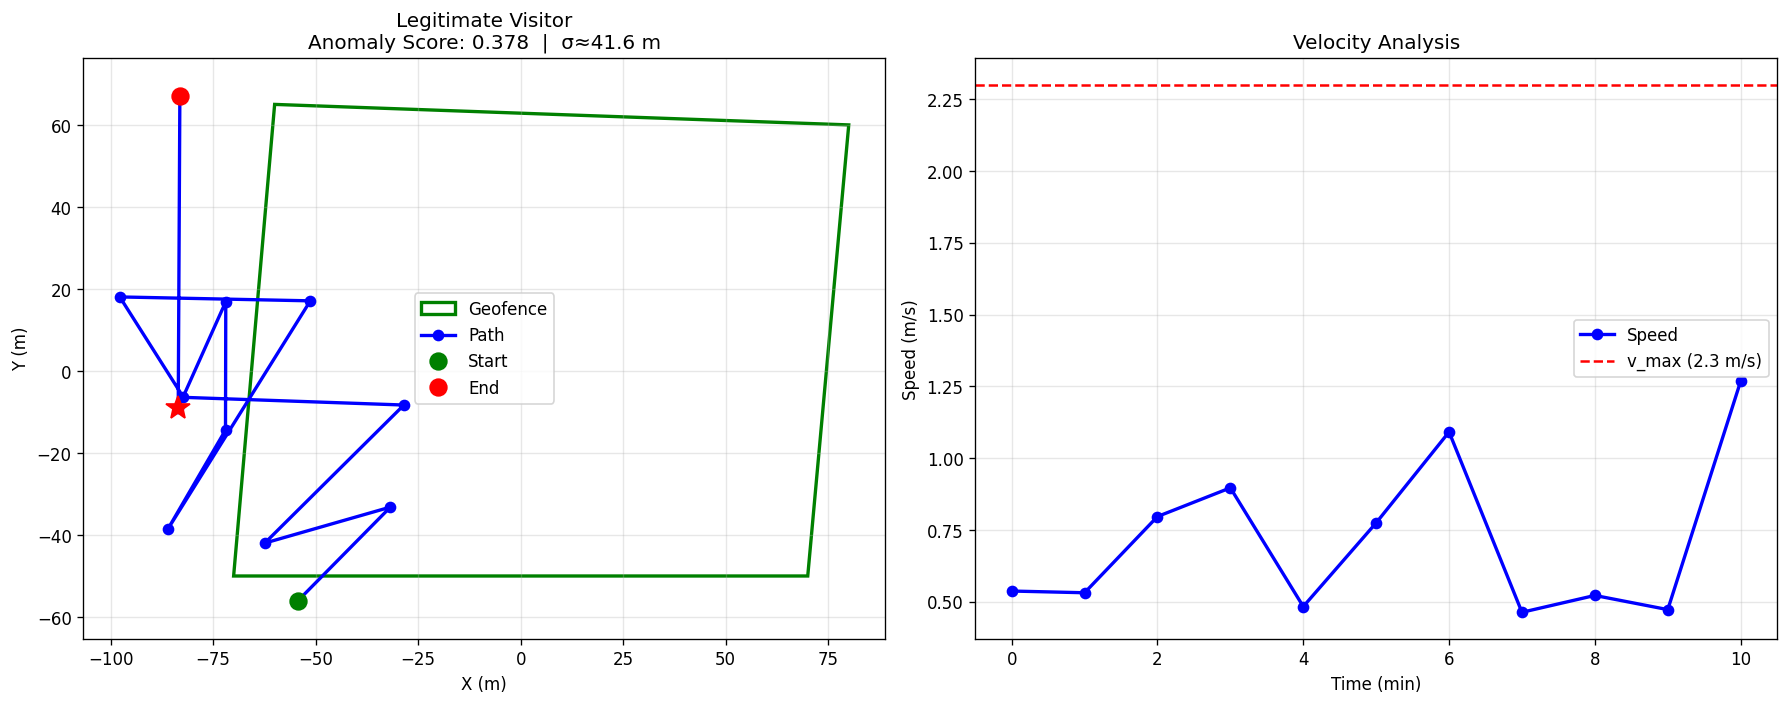
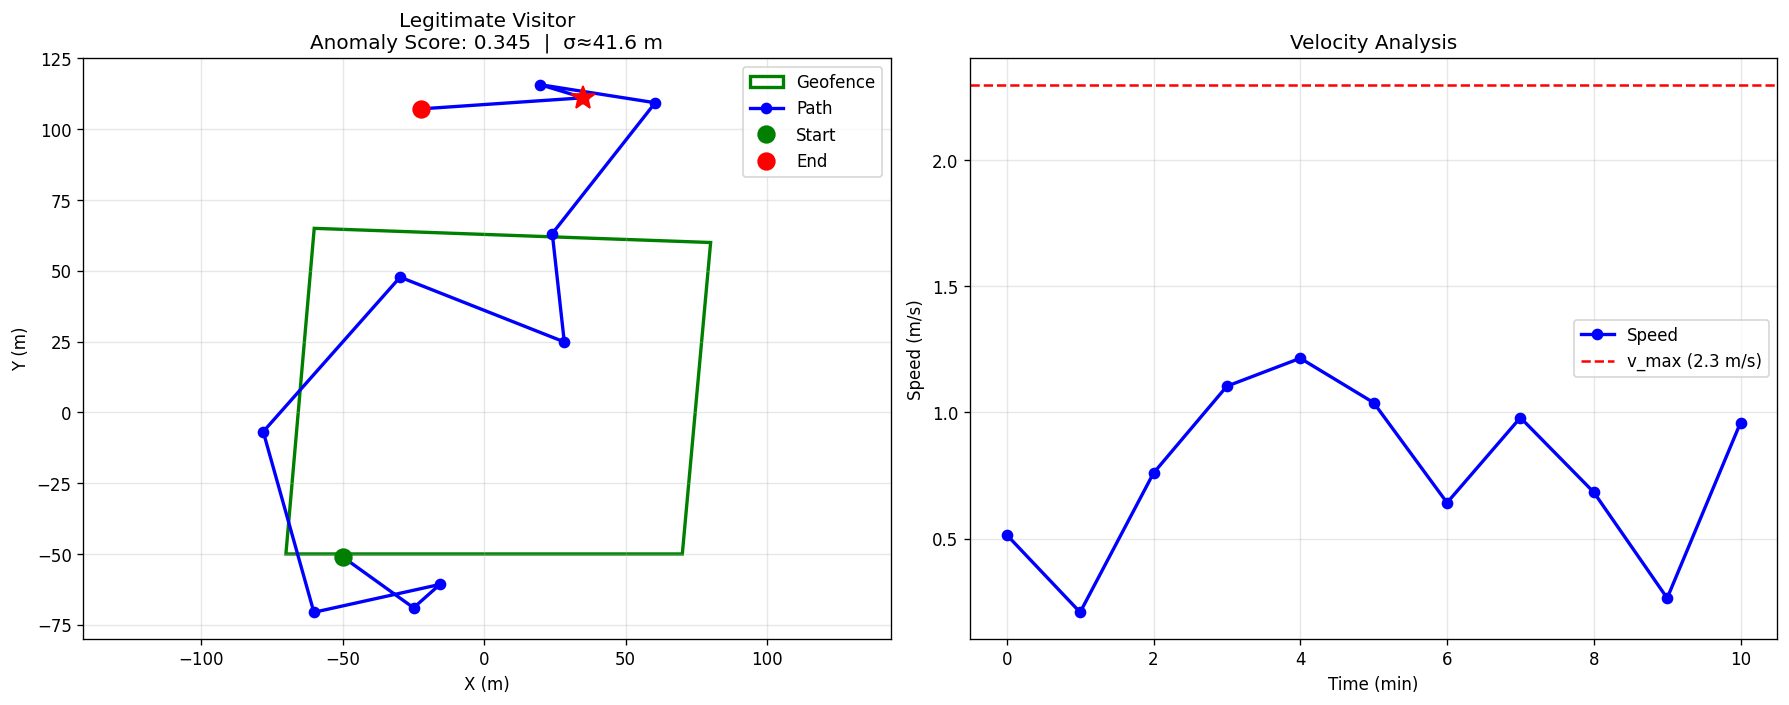
Fix __init__.py to export every public class actually used across the package; make matplotlib optional in geofence.py

diff --git a/geofencing/__init__.py b/geofencing/__init__.py
@@ -1,15 +1,24 @@
 """
 Geofencing for Visitor Management Systems
 
-A production-grade GPS spoofing detection system for visitor management that uses:
+A math-driven location-verification library for visitor management. It
+flags physically implausible movement (GPS/RFID spoofing), enforces zone
+rules, and produces an auditable event stream, using:
   - 2D constant-velocity Kalman filtering for position smoothing
   - Adaptive thresholds (logarithmic convergence)
   - Badge/RFID correlation for multi-factor anomaly detection
   - 3D floor-aware zone containment (ZoneHierarchy)
-  - Anchor-based multilateration (UWB/BLE alternative to GPS)
-  - Real-time policy enforcement (escort tethering, dwell monitoring, tag drops)
+  - Anchor-based multilateration (UWB/BLE alternative to GPS), with
+    multipath outlier rejection and a dilution-of-precision signal
+  - Real-time policy enforcement (escort tethering, dwell monitoring,
+    debounced zone locks, tag drops)
+  - Time-windowed permits and privilege bound to the physical tag
+  - Elevator/vertical tracking with beacon identity locking
   - Emergency response (automated mustering, proximity dispatch)
-  - Hardware lifecycle management (tag provisioning, battery health, anti-passback)
+  - Hardware lifecycle management (tag provisioning, battery health,
+    anti-passback, reconnect warm-up)
+  - A unified EventLog with severity computed from zone risk
+  - Restart-surviving state (StateStore; ZoneLockTracker so far)
 
 Core modules:
   - kalman.py: Kalman filtering + adaptive thresholds
@@ -20,10 +29,18 @@ Core modules:
   - synthetic.py: Synthetic path generators for testing
   - floorplan.py: Floor plan calibration & 3D zone hierarchy
   - multilateration.py: UWB/BLE anchor-based positioning
-  - tracking.py: Escort tethering, dwell monitoring, heading computation
-  - incident.py: Emergency mustering and proximity dispatch
-  - tag_lifecycle.py: Tag provisioning, battery health, anti-passback
+  - tracking.py: Escort tethering, dwell monitoring, zone lock, heading
+  - incident.py: Emergency mustering, presence (TTL) tracking, dispatch
+  - tag_lifecycle.py: Tag registry, battery health, anti-passback, warm-up
+  - elevator_tracking.py: 1D elevator Kalman + beacon identity lock
+  - permits.py: Time-windowed zone/floor authorization
+  - event_log.py: Unified event sink with subscribe()/query()
+  - state_store.py: In-memory and Redis-backed state persistence
   - integrated.py: Master orchestration layer wiring everything together
+
+Optional dependencies (the core package needs only numpy):
+  - matplotlib: GeofenceSystem.visualize_path()   -> geofencing-vms[plot]
+  - redis:      RedisStateStore's real connection  -> geofencing-vms[redis]
 
 Mathematical foundations (IB AA HL):
   - Complex numbers (CoordinateCalibrator similarity transforms)
@@ -50,9 +67,14 @@ from .synthetic import (
     generate_spoofed_path,
     generate_extreme_spoofed_path,
 )
-# Prototype modules (now wired in)
 from .floorplan import CoordinateCalibrator, ZoneHierarchy
-from .multilateration import Anchor, Ranging, multilaterate, rssi_to_distance
+from .multilateration import (
+    Anchor,
+    Ranging,
+    MultilaterationResult,
+    multilaterate,
+    rssi_to_distance,
+)
 from .tracking import (
     PositionSample,
     TetherAlert,
@@ -60,11 +82,22 @@ from .tracking import (
     DwellBaseline,
     DwellAlert,
     DwellMonitor,
+    ZoneLockTracker,
     Heading,
     compute_heading,
     intent_angle_deg,
+    FEET_TO_METRES,
 )
-from .incident import MusterZoneCount, MusterReport, DispatchCandidate, muster, nearest_guards
+from .incident import (
+    MusterZoneCount,
+    MusterReport,
+    ExitEvent,
+    PresenceTracker,
+    DispatchCandidate,
+    position_confidence,
+    muster,
+    nearest_guards,
+)
 from .tag_lifecycle import (
     TagAssignment,
     TagRegistry,
@@ -75,7 +108,25 @@ from .tag_lifecycle import (
     check_speed_anomaly,
     TagDropAlert,
     TagDropDetector,
+    ReliabilityWarmup,
 )
+from .elevator_tracking import (
+    FloorBeacon,
+    BeaconRegistry,
+    BeaconLockTracker,
+    ElevatorKalman1D,
+    resolve_floor,
+    correct_with_identified_beacon,
+    check_stuck_between_floors,
+    # tag_lifecycle and elevator_tracking both define check_speed_anomaly
+    # (visitor anti-passback vs. elevator car speed). The visitor one keeps
+    # the plain name above since that's what was already exported; the
+    # elevator one is aliased so both stay reachable from the top level.
+    check_speed_anomaly as check_elevator_speed_anomaly,
+)
+from .event_log import Severity, Event, EventLog, compute_severity
+from .permits import Permit, PermitRegistry, check_authorization
+from .state_store import StateStore, InMemoryStateStore, RedisStateStore
 from .integrated import IntegratedVisitorManagement
 
 __all__ = [
@@ -97,19 +148,34 @@ __all__ = [
     # Floor planning & zones
     "CoordinateCalibrator", "ZoneHierarchy",
     # Multilateration (UWB/BLE)
-    "Anchor", "Ranging", "multilaterate", "rssi_to_distance",
+    "Anchor", "Ranging", "MultilaterationResult", "multilaterate", "rssi_to_distance",
     # Tracking & policy enforcement
     "PositionSample", "TetherAlert", "TetherMonitor", "DwellBaseline", "DwellAlert",
-    "DwellMonitor", "Heading", "compute_heading", "intent_angle_deg",
+    "DwellMonitor", "ZoneLockTracker", "Heading", "compute_heading", "intent_angle_deg",
+    "FEET_TO_METRES",
     # Incident response
-    "MusterZoneCount", "MusterReport", "DispatchCandidate", "muster", "nearest_guards",
+    "MusterZoneCount", "MusterReport", "ExitEvent", "PresenceTracker",
+    "DispatchCandidate", "position_confidence", "muster", "nearest_guards",
     # Tag lifecycle
     "TagAssignment", "TagRegistry", "BatteryReading", "BatteryPrediction", "predict_battery",
     "SpeedAnomaly", "check_speed_anomaly", "TagDropAlert", "TagDropDetector",
+    "ReliabilityWarmup",
+    # Elevator / vertical tracking
+    "FloorBeacon", "BeaconRegistry", "BeaconLockTracker", "ElevatorKalman1D",
+    "resolve_floor", "correct_with_identified_beacon", "check_stuck_between_floors",
+    "check_elevator_speed_anomaly",
+    # Event log
+    "Severity", "Event", "EventLog", "compute_severity",
+    # Permits
+    "Permit", "PermitRegistry", "check_authorization",
+    # State persistence
+    "StateStore", "InMemoryStateStore", "RedisStateStore",
     # Master integration
     "IntegratedVisitorManagement",
 ]
 
-__version__ = "1.0.0"
+# Single source of truth for the package version: pyproject.toml reads this
+# line (see [tool.hatch.version]), so the two can never disagree.
+__version__ = "0.1.0"
 __author__ = "ElectrifyCS"
 __description__ = "Location-based verification system for visitor management with GPS spoofing detection"

diff --git a/geofencing/geofence.py b/geofencing/geofence.py
@@ -5,6 +5,10 @@ Core detection engine – upgraded.
 - Uncertainty-aware (covariance-scaled) anomaly score
 - Polygonal zones + transition-graph checks
 - Badge risk fused into the final score
+
+matplotlib is an OPTIONAL dependency, used only by
+GeofenceSystem.visualize_path(). It is imported lazily inside that
+method so `import geofencing` needs nothing beyond numpy.
 """
 
 from __future__ import annotations
@@ -12,8 +16,6 @@ from __future__ import annotations
 from typing import List, Tuple, Optional
 from datetime import datetime
 import numpy as np
-import matplotlib.pyplot as plt
-from matplotlib.patches import Circle, Polygon as MplPolygon
 
 from .kalman import KalmanFilter2DConstantVelocity, get_adaptive_thresholds, compute_log_convergence_factor
 from .models import (
@@ -420,6 +422,17 @@ class GeofenceSystem:
         result: DetectionResult,
         title: str = "Visitor Path Analysis",
     ):
+        # matplotlib is optional: imported here, not at module top, so
+        # `import geofencing` works with numpy alone.
+        try:
+            import matplotlib.pyplot as plt
+            from matplotlib.patches import Circle, Polygon as MplPolygon
+        except ImportError as exc:
+            raise ImportError(
+                "visualize_path() needs matplotlib, an optional dependency. "
+                "Install it with: pip install 'geofencing-vms[plot]'"
+            ) from exc
+
         coords = np.array([[p.x, p.y] for p in positions], dtype=float)
         times = np.array([p.t for p in positions], dtype=float)
 
